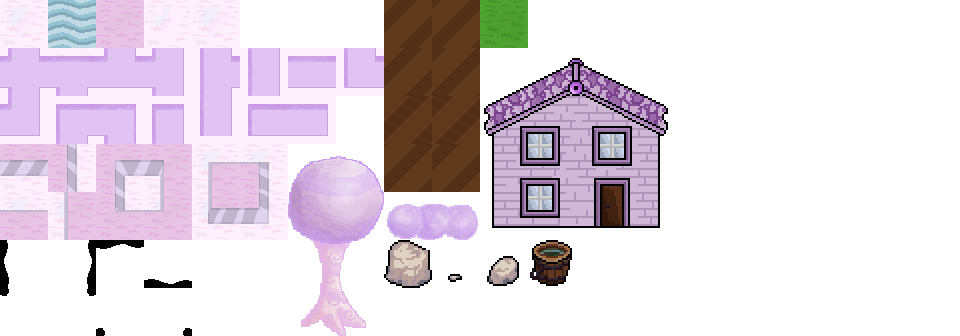
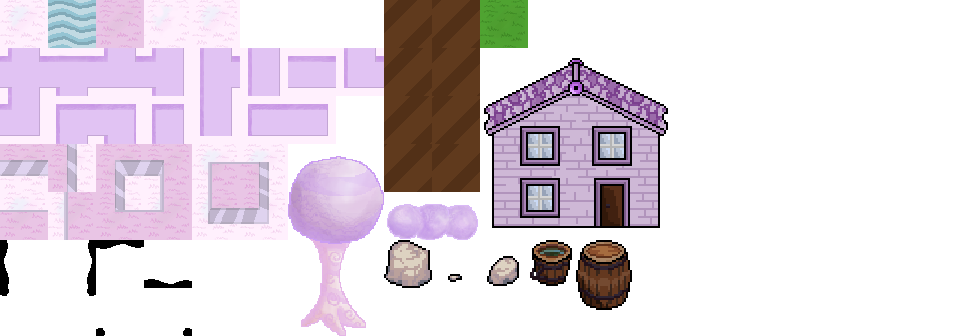
Added bucket

Changed region(s): [[0.5938, 0.7143, 0.6562, 0.9226]]

diff --git a/src/terrain/tile_image_loader.py b/src/terrain/tile_image_loader.py
@@ -81,6 +81,7 @@ big_rock = (384, 240, 48, 48)
 tiny_rock = (432, 240, 48, 48)
 medium_rock = (480, 240, 48, 48)
 bucket = (528, 240, 48, 48)
+barrel = (576, 240, 56, 70)
 
 
 # Indexing this array by a tiles' ID will
@@ -98,7 +99,7 @@ tiles = [generic_ground, blue_ground, path_1,
          shore_3, shore_4, shore_5, shore_6,
          shore_7, shore_8, bush, grass, ground_alt,
          house_1, solid_ground, big_rock, tiny_rock,
-         medium_rock, bucket]
+         medium_rock, bucket, barrel]
 images = {}
 
 sprite_sheet = None

diff --git a/src/terrain/tile_data.py b/src/terrain/tile_data.py
@@ -52,5 +52,6 @@ tile_colors = {15724527: "0000",  # Generic ground
                2120488: "0045",  # Big Rock
                2451758: "0046",  # Tiny Rock
                2849078: "0047",  # Medium Rock
-               13217365: "0048"  # Bucket
+               13217365: "0048",  # Bucket
+               11573318: "0049"  # Barrel
                }

diff --git a/src/terrain/tile_types.py b/src/terrain/tile_types.py
@@ -35,7 +35,8 @@ shadowed_decs = [
     "0045",
     "0046",
     "0047",
-    "0048"
+    "0048",
+    "0049"
 ]
 
 # Vertical distance from sprite to shadow
